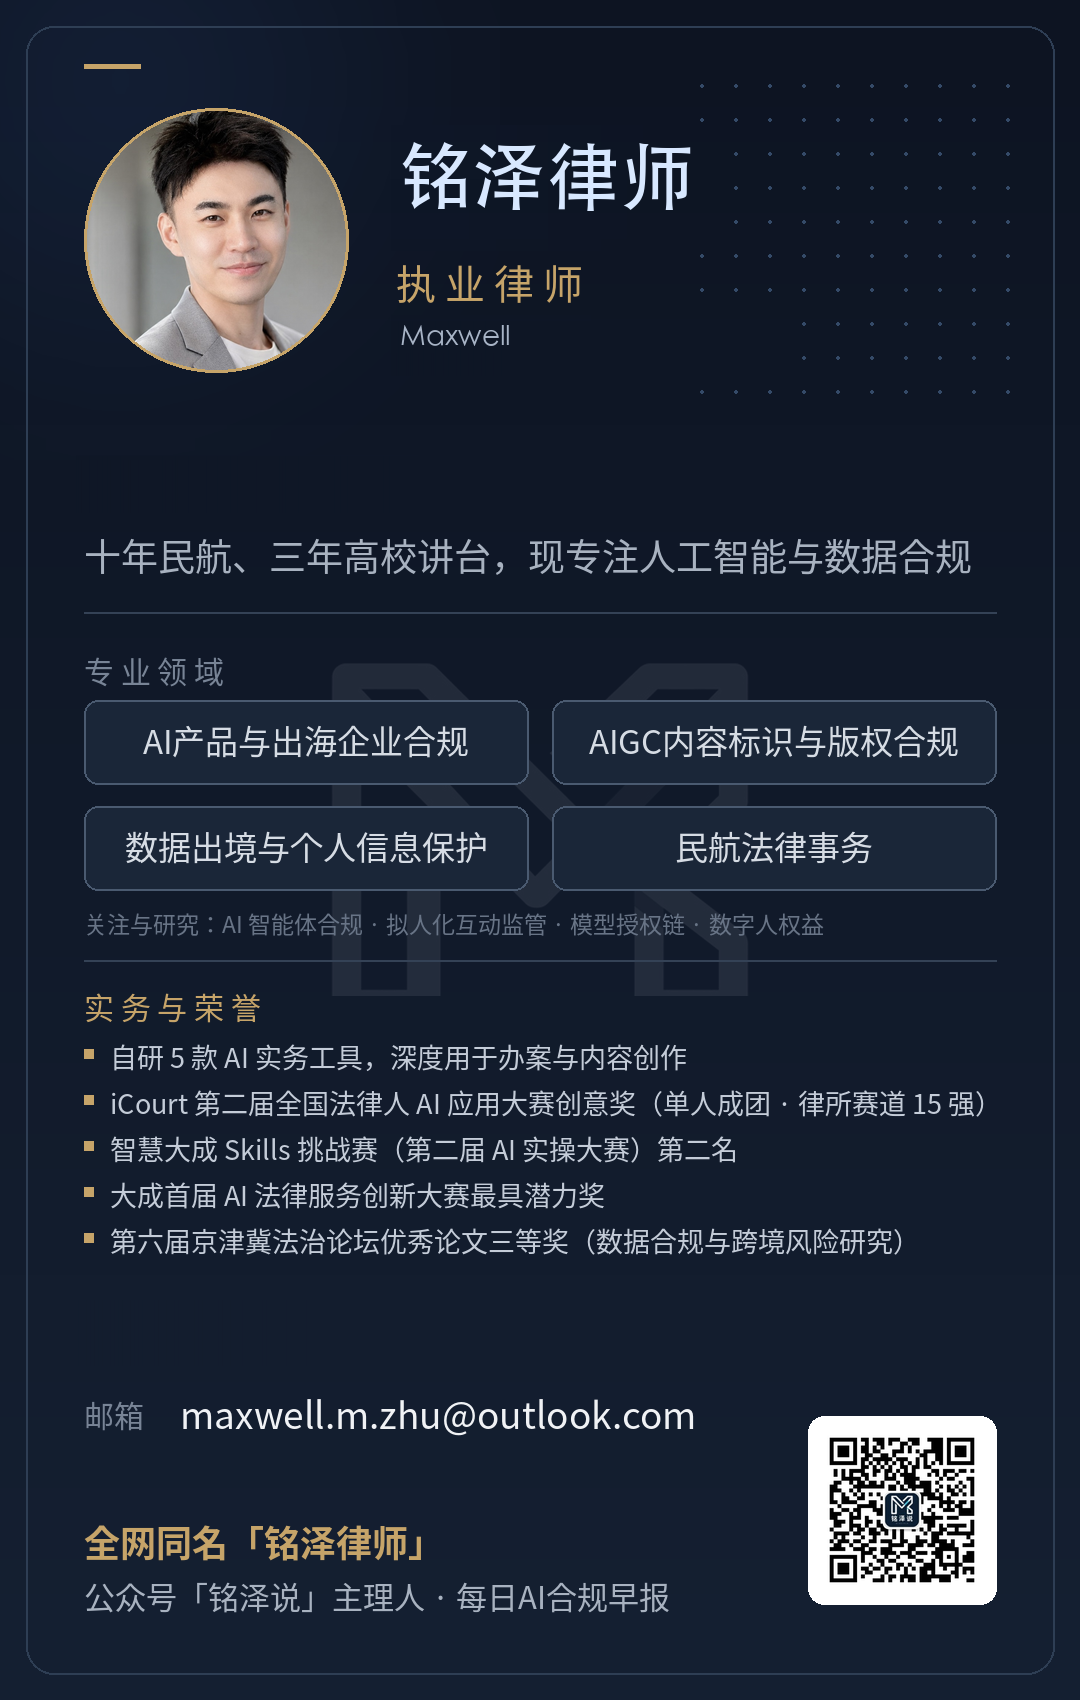
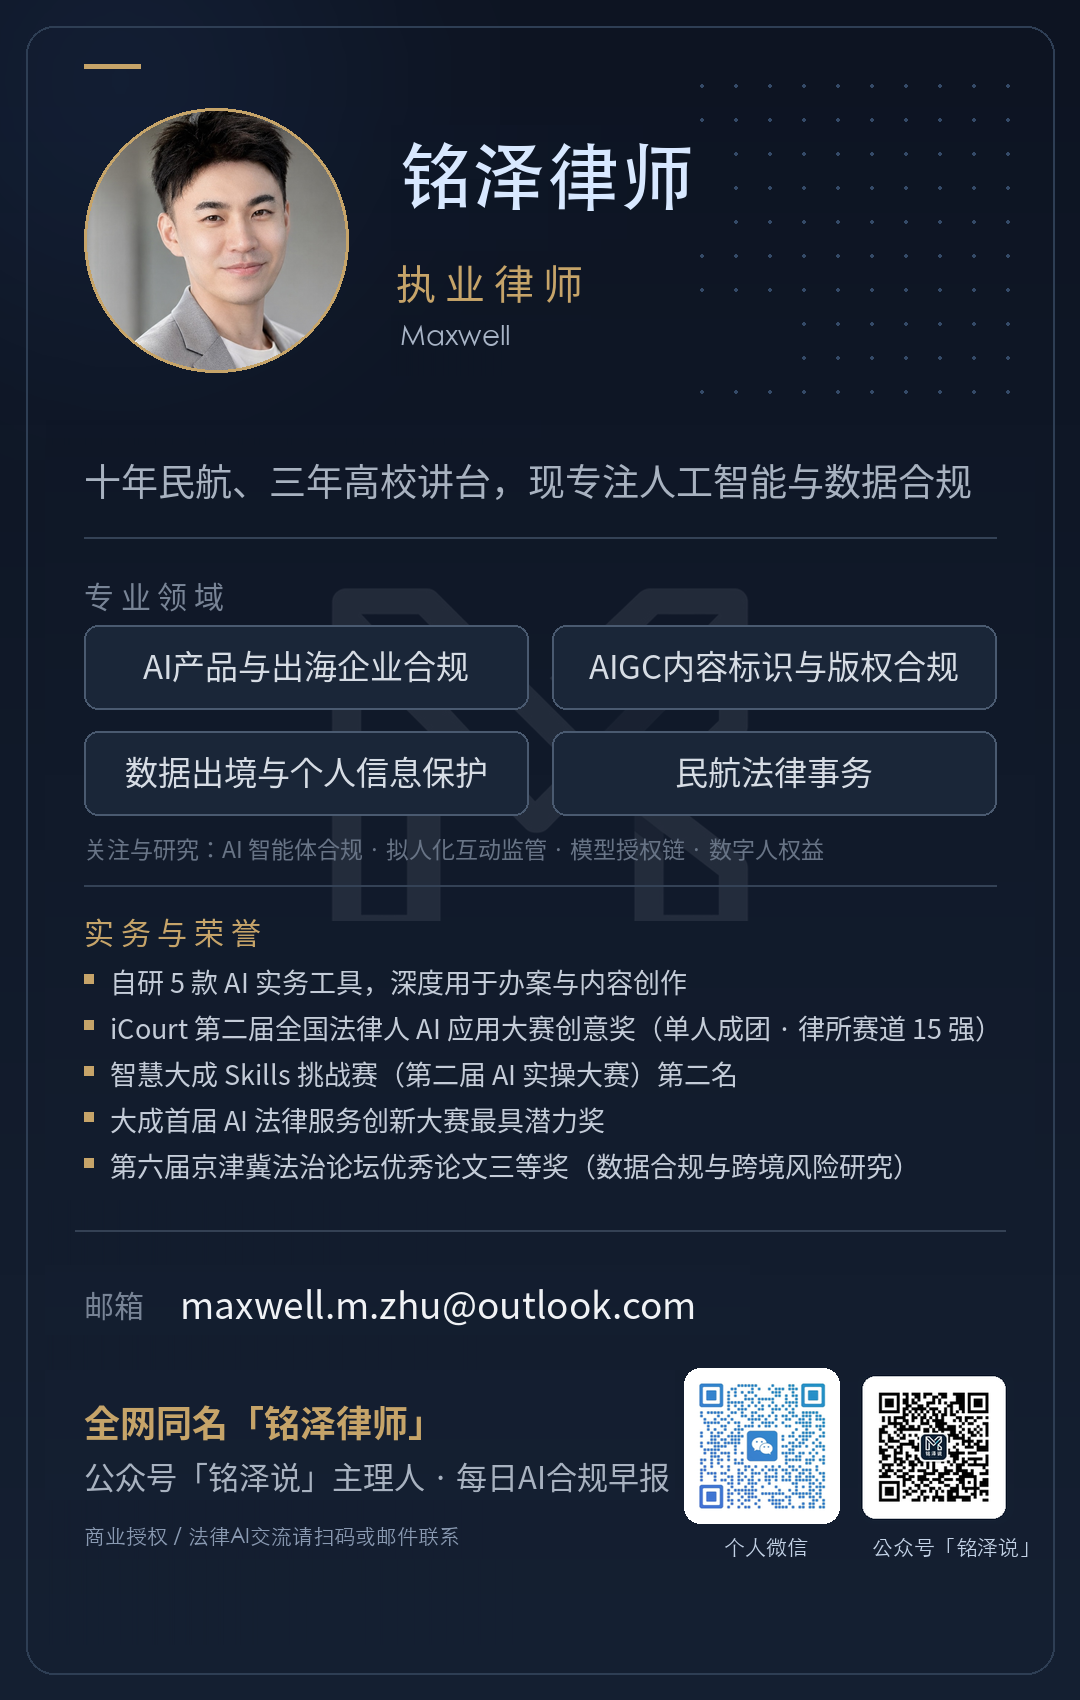
docs: re-layout business card with WeChat QR and move About Author to bottom

diff --git a/README_EN.md b/README_EN.md
@@ -14,14 +14,6 @@ WePress is an open-source Obsidian plugin designed to format and seamlessly sync
 
 ---
 
-<h2 align="center">👨💼 About the Author</h2>
-
-<div align="center">
-  <img src="assets/brand_profile.png" width="500" alt="About the Author"/>
-</div>
-
----
-
 <h2 align="center">📷 Screenshots</h2>
 
 ![Split-screen live preview and WeChat simulator](assets/screenshot_preview.png)
@@ -83,6 +75,8 @@ If you encounter any issues or wish to discuss legal AI, self-media creation, or
 *   **Commercial Licensing Email**: `maxwell.m.zhu@outlook.com`
 
 ---
+
+<h2 align="center">👨💼 About the Author</h2>
 
 <div align="center">
   <img src="assets/business_card.png" width="460" alt="铭泽律师 Maxwell"/>
